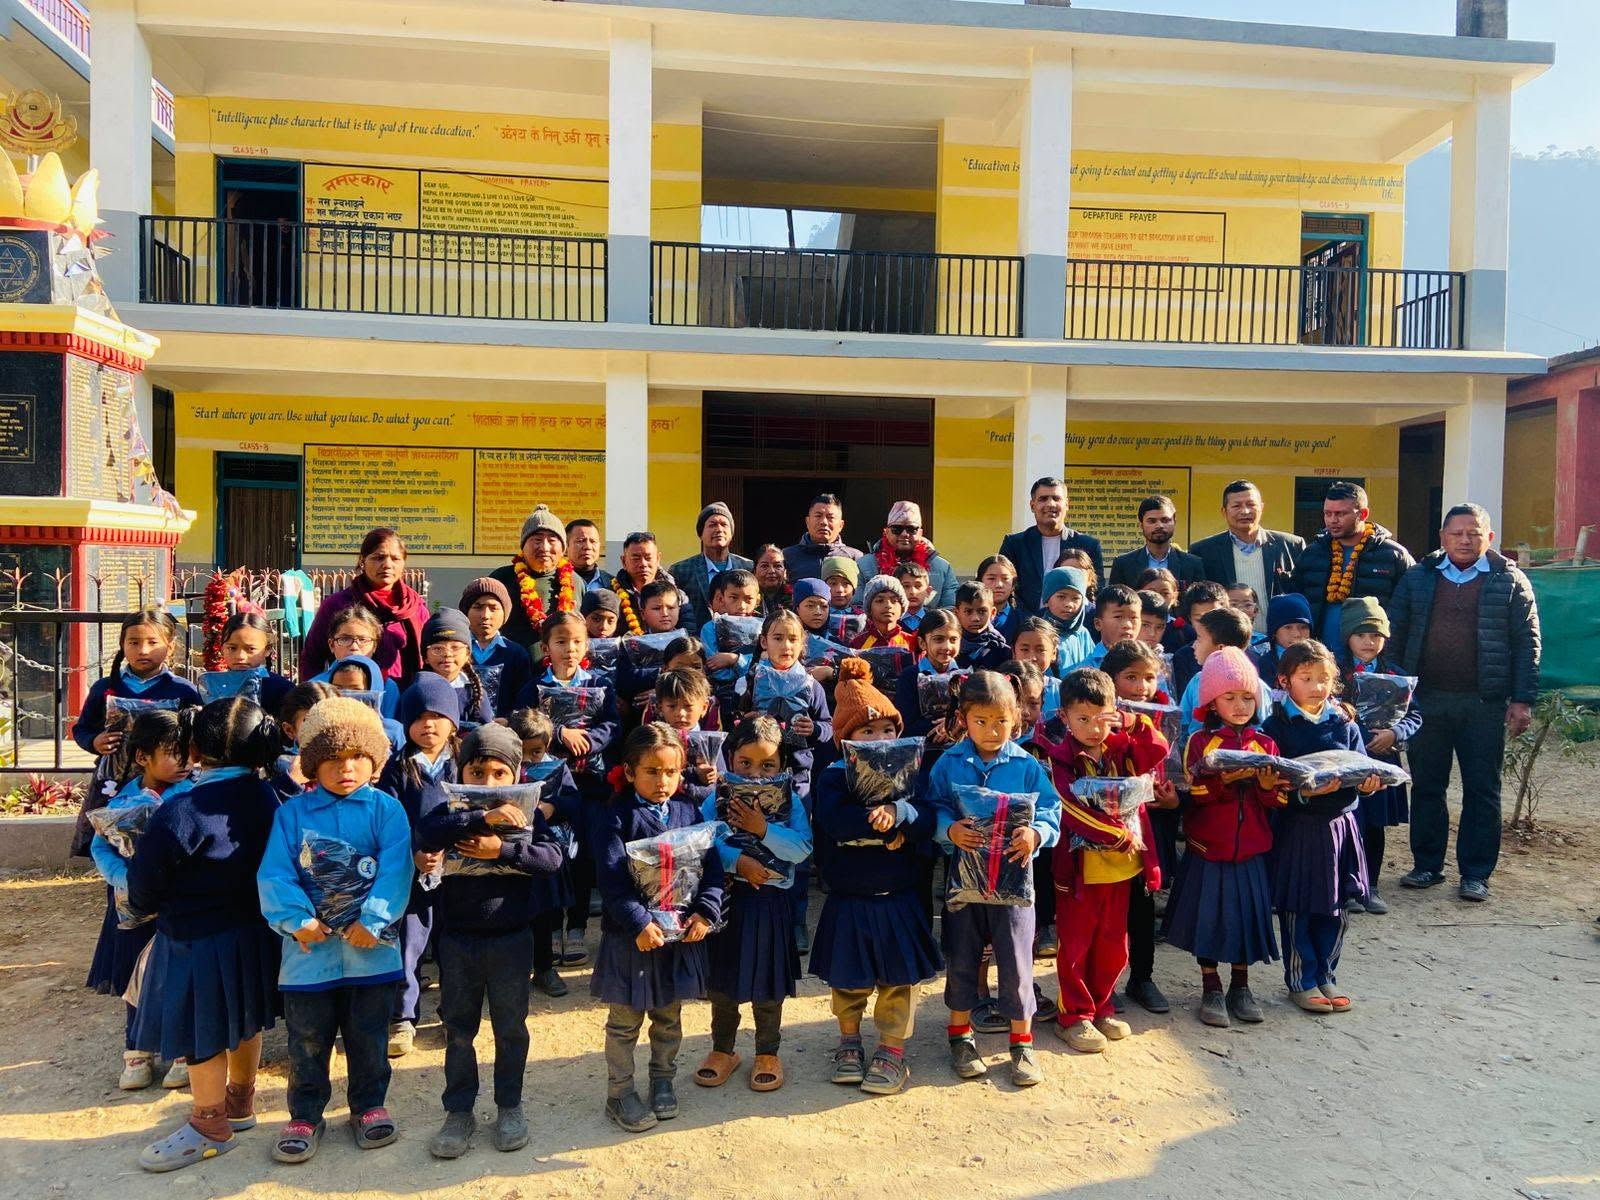
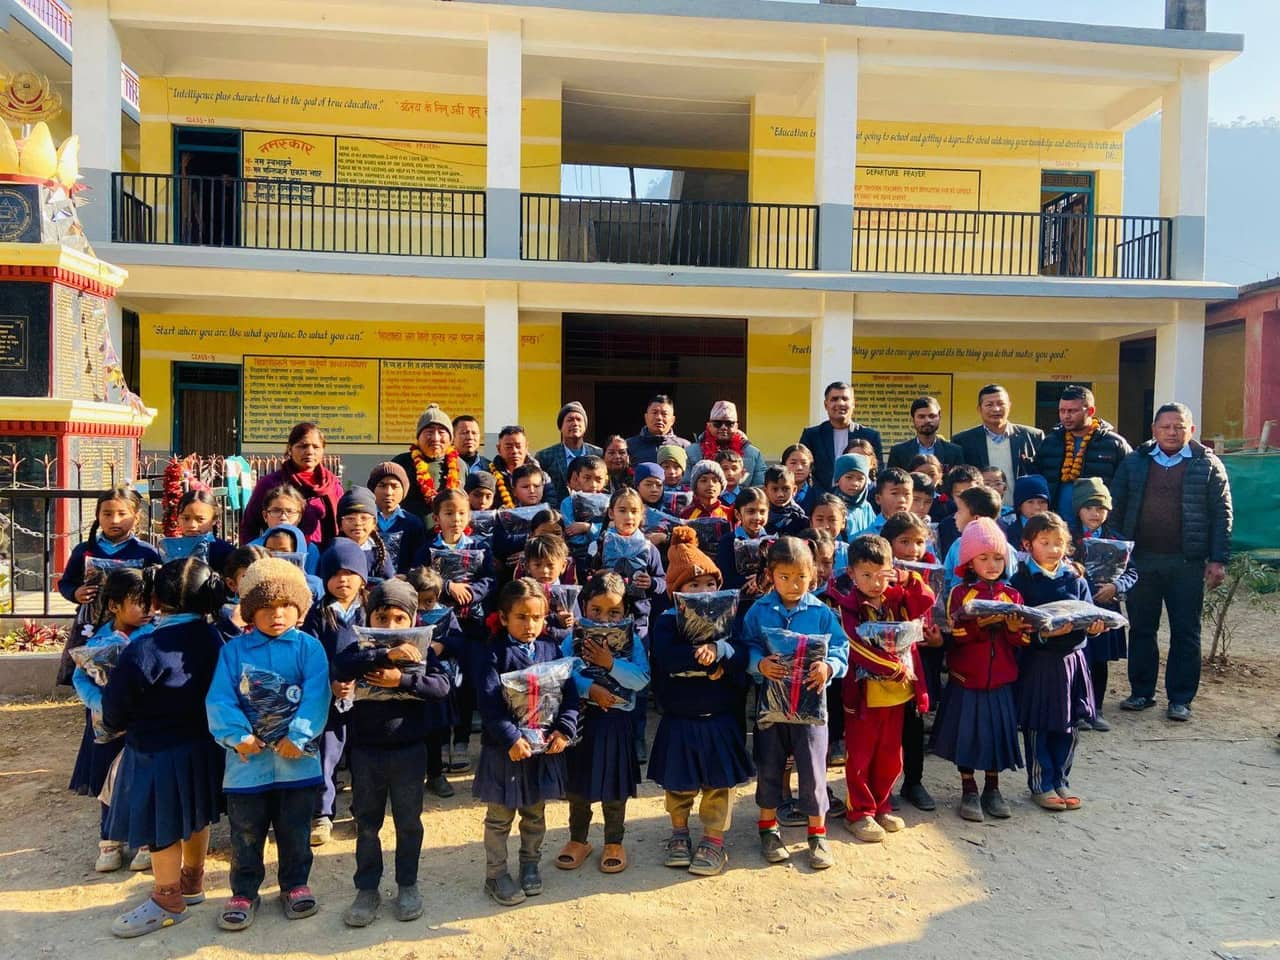
Cut LCP: compress hero images, un-block font CSS, prioritize LCP image
PageSpeed flagged 'Improve image delivery' (est. 1,671 KiB) and
'Render-blocking requests' (est. 830ms) as the two biggest opportunities
after the earlier JS code-splitting -- both traced to concrete causes:

- The 5 rotating hero photos were straight-off-camera JPEGs (1600-2048px
  wide, 242-386KB each, ~1.5MB total) serving a slideshow that's shown
  with a heavy dark gradient + text overlay on top, where that resolution
  buys nothing visible. Resized to a 1280px max width and re-compressed
  (quality 68, mozjpeg) -- 1581KB combined -> 659KB, a 58% cut, with no
  visible quality loss even viewed at full size outside the overlay.
- The Google Fonts <link rel="stylesheet"> in index.html was a classic
  render-blocking resource: the browser had to fetch+parse it before
  first paint, adding a round trip to fonts.googleapis.com to every
  page load. Switched to the standard preload-then-swap pattern (a
  <noscript> fallback covers JS-disabled visitors) -- pairs naturally
  with the display=swap already in the font URL, so the fallback font
  still shows instantly and swaps in once the webfont arrives, just
  without blocking the render first.
- Added fetchPriority="high" to the hero <img> itself (the page's LCP
  element) so the browser fetches it ahead of lower-priority requests.

Verified against the rebuilt production output with Playwright (Hero
renders correctly at mobile width, fonts apply, no console errors) and
[…]

diff --git a/client/index.html b/client/index.html
@@ -15,10 +15,31 @@
     <title>Khuma Aryal Foundation</title>
     <link rel="preconnect" href="https://fonts.googleapis.com" />
     <link rel="preconnect" href="https://fonts.gstatic.com" crossorigin />
+    <!-- Loaded async (preload as style, swap to a real stylesheet once it
+         arrives) instead of a plain blocking <link rel="stylesheet"> --
+         that was holding up first paint on every page load waiting on a
+         round trip to fonts.googleapis.com. display=swap (already in the
+         URL) means the fallback font shows immediately regardless and
+         swaps once the webfont's loaded, so nothing about the font
+         experience changes here, it just stops blocking the render. The
+         <noscript> tag is the fallback for the rare case JS is disabled. -->
+    <link
+      rel="preload"
+      as="style"
+      href="https://fonts.googleapis.com/css2?family=Fraunces:opsz,wght@9..144,500;9..144,600;9..144,700&family=Manrope:wght@400;500;600;700;800&family=Noto+Sans+Devanagari:wght@400;500;600;700&display=swap"
+    />
     <link
       href="https://fonts.googleapis.com/css2?family=Fraunces:opsz,wght@9..144,500;9..144,600;9..144,700&family=Manrope:wght@400;500;600;700;800&family=Noto+Sans+Devanagari:wght@400;500;600;700&display=swap"
       rel="stylesheet"
+      media="print"
+      onload="this.media='all'"
     />
+    <noscript>
+      <link
+        href="https://fonts.googleapis.com/css2?family=Fraunces:opsz,wght@9..144,500;9..144,600;9..144,700&family=Manrope:wght@400;500;600;700;800&family=Noto+Sans+Devanagari:wght@400;500;600;700&display=swap"
+        rel="stylesheet"
+      />
+    </noscript>
   </head>
   <body>
     <div id="root"></div>

diff --git a/client/src/components/Hero.jsx b/client/src/components/Hero.jsx
@@ -153,6 +153,14 @@ export default function Hero({ siteInfo }) {
               key={index}
               src={HERO_IMAGES[index]}
               alt="Khuma Aryal Foundation"
+              // This is the LCP (Largest Contentful Paint) element on the
+              // homepage — fetchPriority="high" tells the browser to fetch
+              // it ahead of lower-priority requests instead of at its
+              // default priority, shaving time off LCP specifically. Only
+              // matters for whichever slide is currently mounted (index 0
+              // on first load, the one that actually is the LCP image);
+              // harmless to leave on for later slides too.
+              fetchPriority="high"
               initial={{ x: "100%", opacity: 0 }}
               animate={{ x: "0%", opacity: 1 }}
               exit={{ x: "-100%", opacity: 0 }}
